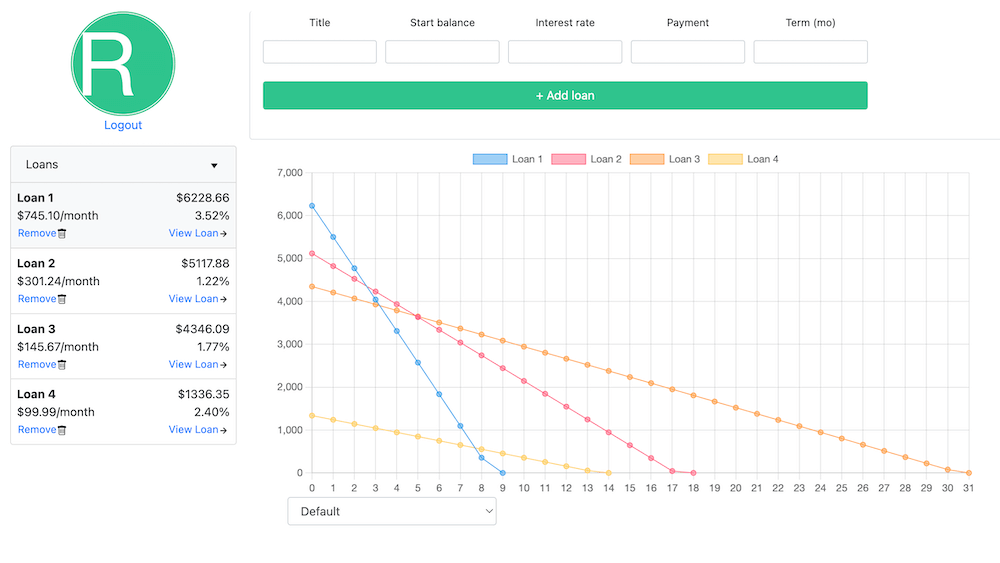
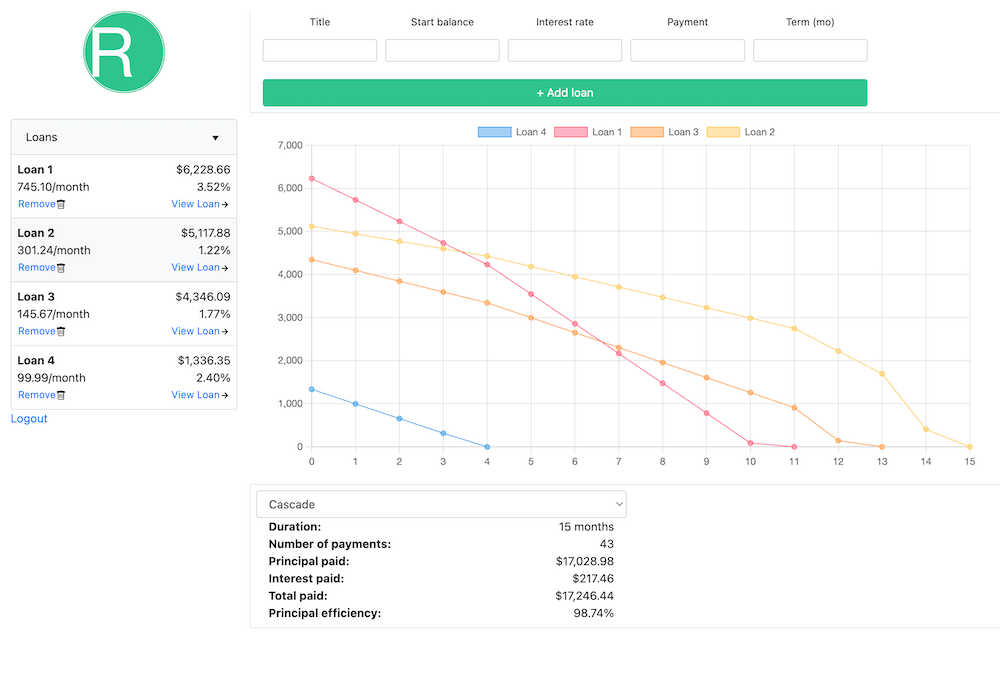
analysis view and extra loan data in api

diff --git a/client/src/components/Dashboard.jsx b/client/src/components/Dashboard.jsx
@@ -6,10 +6,15 @@ import { addUserLoan, getUserLoans } from '../ajax';
 import logo from '../img/repaymint-logo-400.png'
 
 export default function Dashboard() {
-  const [loans, setLoans] = useState([]);
+  const [loanData, setLoanData] = useState({
+    loans: [],
+    analysis: {}
+  });
+  const { loans, analysis } = loanData;
   const [selectedLoanIndex, setSelectedLoanIndex] = useState(0);
   const [values, setValues] = useState({});
   const [errors, setErrors] = useState({});
+  const updateError = (errorName, errorMessage) => setErrors((currentErrors) => ({...currentErrors, [errorName]: errorMessage}));
   
   const addLoan = (newLoan) => setLoans([...loans, newLoan]);
   const removeLoan = (loanIndex) => {
@@ -29,33 +34,33 @@ export default function Dashboard() {
   
   const submit = async (e) => {
     e.preventDefault();
-    setErrors((currentErrors) => ({...currentErrors, form: false}))
+    updateError('form', false);
     try {
       const newLoan = await addUserLoan(values);
       addLoan(newLoan);
     } catch(e) {
-      setErrors((currentErrors) => ({
-        ...currentErrors,
-        form: 'Payment amount must be enough to cover monthly interest.'
-      }))
+      console.error(e);
+      updateError('form', 'Payment amount must be enough to cover monthly interest.');
     }
   };
 
   useEffect(() => {
     (async () => {
-      const fetchedLoans = await getUserLoans();
-      setLoans(fetchedLoans);
+      try {
+        const fetchedLoans = await getUserLoans();
+        setLoanData(fetchedLoans);
+      } catch(e) {
+        console.error(e);
+        updateError('loanIndex', 'Could not retreive user loans.');
+      }
     })()
   }, []);
 
   return (
     <>
       <div class="row">
-        <div class="col-3 text-center mb-2">
-          <div class="d-flex">
-            <img src={logo} width={124} alt="RepayMint Logo" class="mx-auto"/>
-          </div>
-          <a href="/logout" class="mb-0">Logout</a>
+        <div class="col col-3 text-center mb-2">
+          <img src={logo} width={100} alt="RepayMint Logo"/>
         </div>
         <div class="col border border-top-0 rounded text-center">
           <LoanForm submit={submit} setValue={setValue} />
@@ -65,9 +70,10 @@ export default function Dashboard() {
       <div class="row">
         <div class="col-md-3 col-sm">
           <LoanIndex loans={loans} selectedLoanIndex={selectedLoanIndex} selectLoan={selectLoan} removeLoan={removeLoan}/>
+          <a href="/logout" class="mt-4">Logout</a>
         </div>
         <div class="col">
-          <LoanView loans={loans} />
+          <LoanView loans={loans} analysis={analysis} />
         </div>
       </div>
     </>

diff --git a/client/src/components/Loan/LoanView.jsx b/client/src/components/Loan/LoanView.jsx
@@ -1,8 +1,10 @@
 import { useEffect, useRef, useState } from "preact/hooks";
 import Chart from 'chart.js/auto';
 import { getUserQueues } from "../../ajax";
+import AnalysisView from "../AnalysisView";
+import LoanChart from "./LoanChart";
 
-export default function LoanView({ loans }) {
+export default function LoanView({ loans, analysis }) {
   if (!loans) return <div> Add some loans to get started!</div>;
   
   const [queues, setQueues] = useState({});
@@ -44,24 +46,13 @@ export default function LoanView({ loans }) {
 
   return (
     <>
-      <div class="row mt-2">
-      </div>
-      <div class="chart-container">
-        <canvas id="loanChart" ref={canvasRef}></canvas>
-        <div class="col-4">
-          <select
-            name="repaymentMethod"
-            value={method}
-            onChange={(e) => setMethod(e.target.value)} class="form-control">
-            <option value="default">Default</option>
-            <option value="avalanche">Avalanche</option>
-            <option value="blizzard">Blizzard</option>
-            <option value="cascade">Cascade</option>
-            <option value="iceSlide">Ice Slide</option>
-            <option value="snowball">Snowball</option>
-          </select>
-        </div>
-      </div>
+
+      {/* Chart */}
+      <LoanChart canvasRef={canvasRef} />
+
+      {/* Analysis */}
+      <AnalysisView method={method} setMethod={setMethod} analysis={queues[method]?.analysis || analysis} />
+
     </>
   );
 }

diff --git a/client/src/components/AnalysisView.jsx b/client/src/components/AnalysisView.jsx
@@ -1,0 +1,39 @@
+export default function AnalysisView({ method, setMethod, analysis }) {
+  return (
+    <div class="row border rounded p-2">
+      <div class="col-6">
+        <div class="row">
+          <select
+            name="repaymentMethod"
+            value={method}
+            onChange={(e) => setMethod(e.target.value)} class="form-control">
+            <option value="default">Default</option>
+            <option value="avalanche">Avalanche</option>
+            <option value="blizzard">Blizzard</option>
+            <option value="cascade">Cascade</option>
+            <option value="iceSlide">Ice Slide</option>
+            <option value="snowball">Snowball</option>
+          </select>
+        </div>
+      <div class="row">
+        <div class="col">
+          <div><b>Duration:</b></div>
+          <div><b>Number of payments:</b></div>
+          <div><b>Principal paid:</b></div>
+          <div><b>Interest paid:</b></div>
+          <div><b>Total paid:</b></div>
+          <div><b>Principal efficiency:</b></div>
+        </div>
+        <div class="col text-right">
+          <div>{analysis.duration} months</div>
+          <div>{analysis.numPayments}</div>
+          <div>{analysis.principalPaid}</div>
+          <div>{analysis.interestPaid}</div>
+          <div>{analysis.totalPaid}</div>
+          <div>{analysis.percentPrincipal}%</div>
+        </div>
+      </div>
+      </div>
+    </div>
+  );
+}

diff --git a/client/src/ajax.js b/client/src/ajax.js
@@ -1,3 +1,5 @@
+import { formatDecimal } from "./util";
+
 /**
  * Interface Loan Data
  * @param {Object} loanData JSON representing Loan object
@@ -7,7 +9,7 @@ const unpackLoanData = (loanData) => ({
   interestRate: loanData.int_rate,
   paymentAmt: loanData.payment_amt,
   paymentHistory: loanData.payment_history,
-  startBalance: loanData.start_balance,
+  startBalance: formatDecimal(loanData.start_balance),
   term: loanData.term,
   title: loanData.title
 });
@@ -20,8 +22,9 @@ const unpackLoanData = (loanData) => ({
 const unpackLoanAnalysis = (loanAnalysis) => ({
   duration: loanAnalysis.duration,
   numPayments: loanAnalysis.num_payments,
-  principalPaid: loanAnalysis.principal_paid,
-  interestPaid: loanAnalysis.interest_paid,
+  principalPaid: formatDecimal(loanAnalysis.principal_paid),
+  interestPaid: formatDecimal(loanAnalysis.interest_paid),
+  totalPaid: formatDecimal(loanAnalysis.total_paid),
   avgPI: loanAnalysis.avg_pi,
   percentPrincipal: loanAnalysis.percent_principal
 });
@@ -39,7 +42,10 @@ export async function addUserLoan(body) {
 export async function getUserLoans() {
   const res = await fetch('/api/loans');
   const data = await res.json();
-  return data.map((loanData) => unpackLoanData(loanData));
+  return {
+    loans: data.loans.map((loanData) => unpackLoanData(loanData)),
+    analysis: unpackLoanAnalysis(data.analysis)
+  }
 }
 
 export async function getUserQueues() {

diff --git a/client/src/components/Loan/LoanIndexItems.jsx b/client/src/components/Loan/LoanIndexItems.jsx
@@ -6,11 +6,11 @@ export default function LoanIndexItem({ loan, isSelected, selectLoan, removeLoan
 
       <section class="d-flex justify-content-between">
         <span><strong>{loan.title}</strong></span>
-        <span>${loan.startBalance}</span>
+        <span>{loan.startBalance}</span>
       </section>
 
       <section class="d-flex justify-content-between">
-        <span>${loan.paymentAmt}/month</span>
+        <span>{loan.paymentAmt}/month</span>
         <span>{loan.interestRate}%</span>
       </section>
 

diff --git a/client/src/components/Loan/LoanChart.jsx b/client/src/components/Loan/LoanChart.jsx
@@ -1,0 +1,9 @@
+export default function LoanChart({ canvasRef }) {
+  return (
+    <div class="row mt-2">
+      <div class="chart-container">
+        <canvas id="loanChart" ref={canvasRef}></canvas>
+      </div>
+    </div>
+  );
+}

diff --git a/client/src/util.js b/client/src/util.js
@@ -1,0 +1,7 @@
+const USDollar = new Intl.NumberFormat('en-US', {
+  style: 'currency',
+  currency: 'USD',
+  minimumFractionDigits: 2
+});
+
+export const formatDecimal = (decimalString) => USDollar.format(decimalString);

diff --git a/router.py b/router.py
@@ -20,7 +20,7 @@ db = {
 }
 
 # TODO Lookup loans and return completed queue object
-def get_user_loans_from_db():
+def get_user_queue_from_db():
   user_loans = [StandardLoan(loan[0], loan[1], pa=loan[2], title=loan[3], term=loan[4]) for loan in db['userLoans']]
   user_queue = PriorityQueue(user_loans, 1292.00, 'User Queue')
   # user_queue.payoff()
@@ -99,16 +99,19 @@ def new_loan():
 @app.route("/api/loans")
 def get_user_loans():
   # TODO Get user loans from database, solve them all
-  user_queue = get_user_loans_from_db()
+  user_queue = get_user_queue_from_db()
   user_queue.payoff()
-  return user_queue.to_json()
+  return {
+    "loans": user_queue.to_json(),
+    "analysis": user_queue.get_analysis()
+  }
 
 @app.route("/api/queues")
 def get_user_queues():
   # if 'loans' not in session:
   #   session['loans'] = []
   # Get user loans from database, solve them all
-  user_queue = get_user_loans_from_db()
+  user_queue = get_user_queue_from_db()
   avalanche = user_queue.avalanche()
   blizzard = user_queue.blizzard()
   cascade = user_queue.cascade()

diff --git a/app/priority_queue.py b/app/priority_queue.py
@@ -35,6 +35,7 @@ class PriorityQueue:
         return self._budget
     @budget.setter
     def budget(self, b):
+        # TODO If not b, add up loan payment amounts
         self._budget = Loan.Dec(b)
 
     # Length of Q
